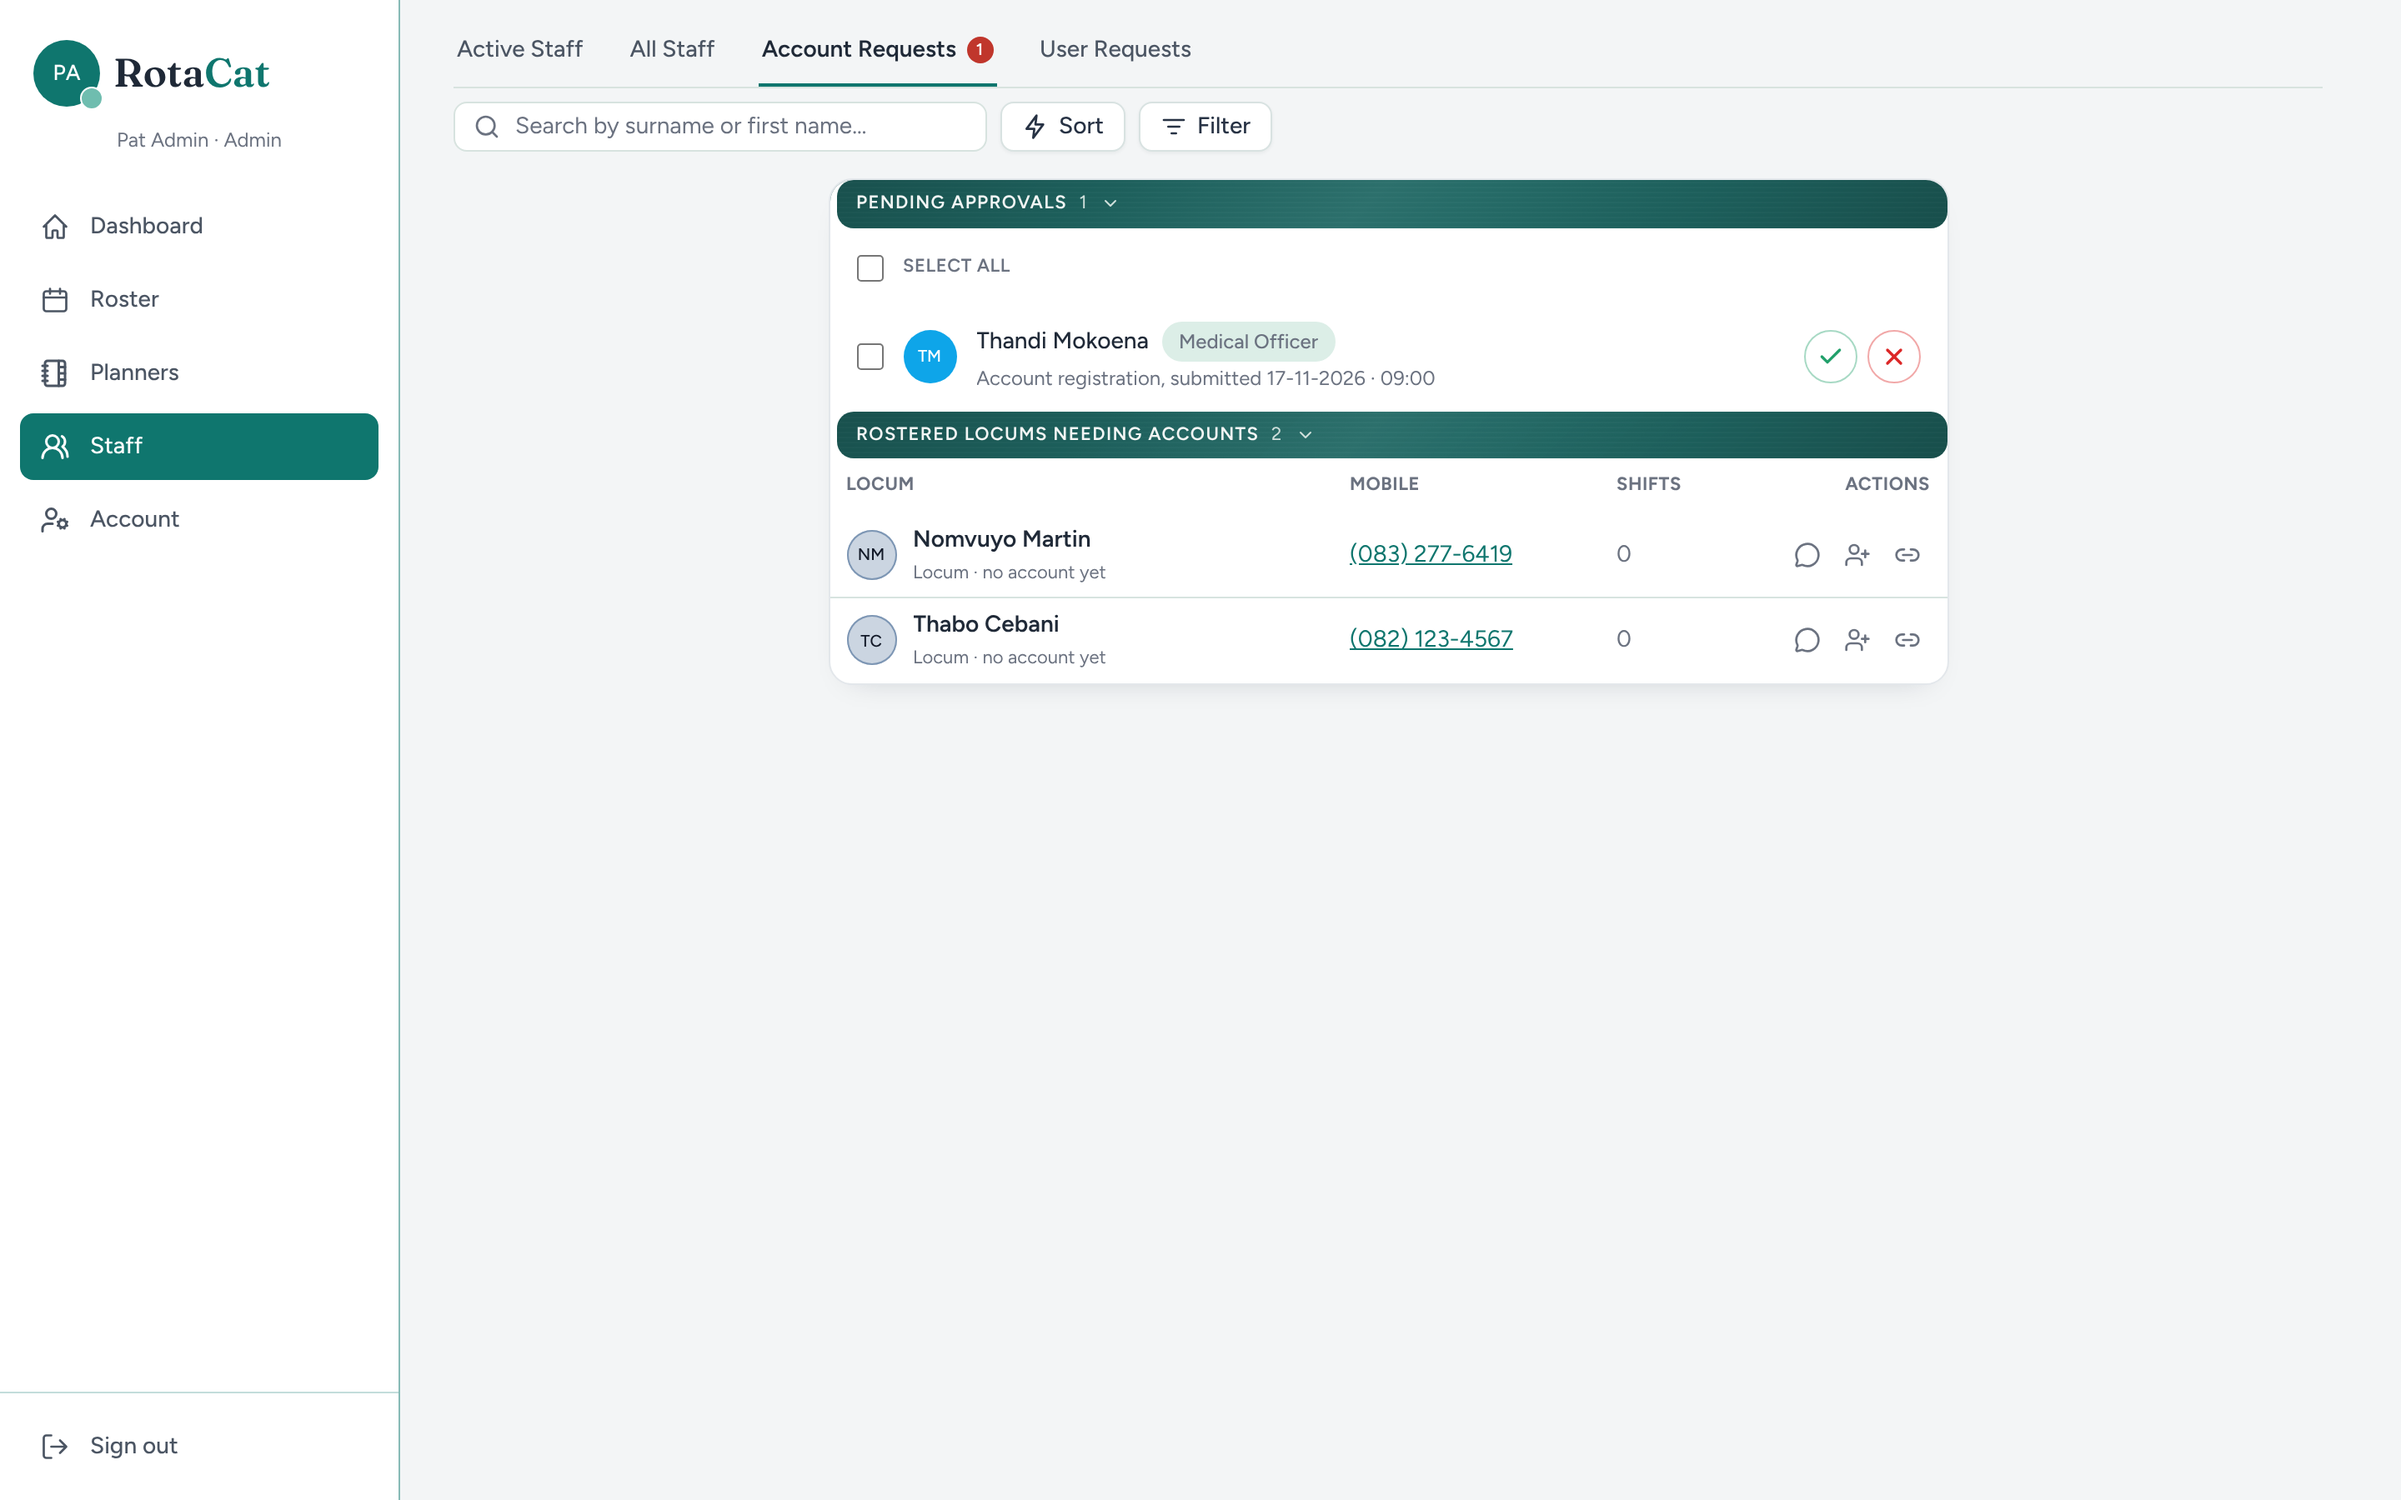
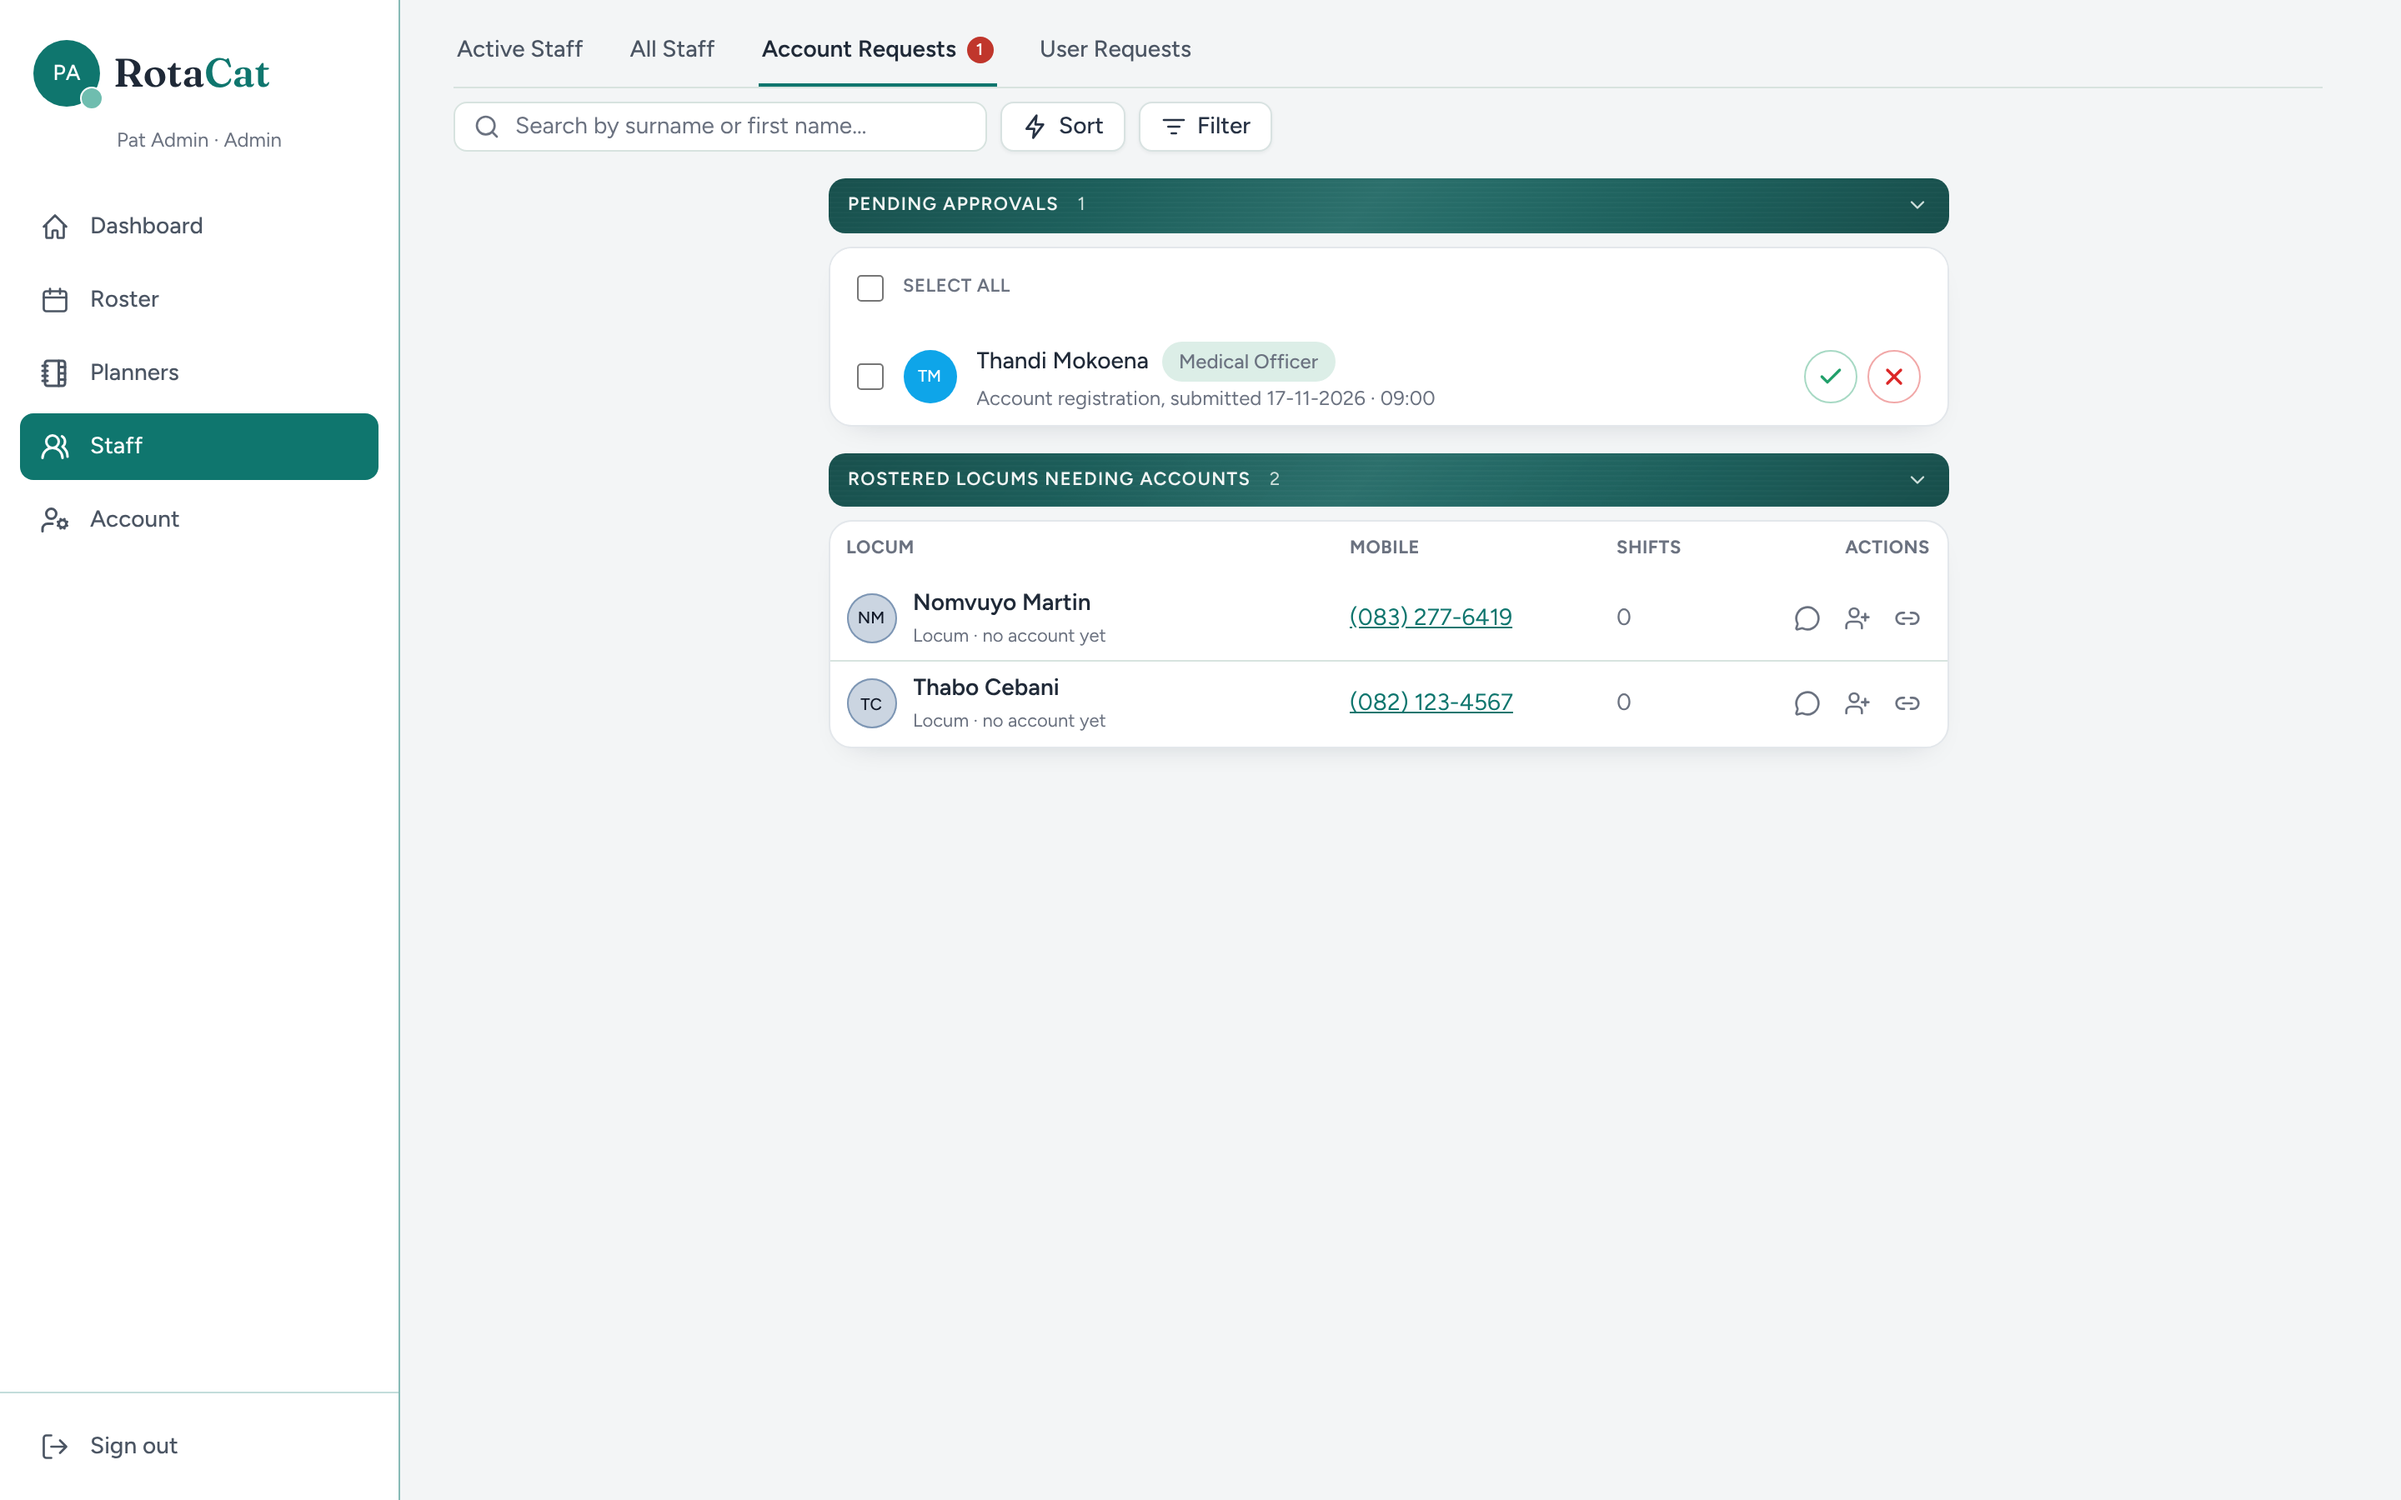
Account Requests: a header bar over its own card per section
Each section is the Staff list's shape: a sheen header bar, then a
separate white card beneath it, rather than two bars inside one card.

Claude-Session: https://claude.ai/code/session_012j9w9p49MqWz6PXzseFAQy

Changed region(s): [[0.3438, 0.1244, 0.8125, 0.4978]]

diff --git a/src/pages/StaffListPage.jsx b/src/pages/StaffListPage.jsx
@@ -12,7 +12,6 @@ import FloatingActionMenu from '../components/FloatingActionMenu'
 import StatusChangeConfirmModal from '../components/StatusChangeConfirmModal'
 import AddStaffModal from '../components/AddStaffModal'
 import LocumContactsPanel from '../components/LocumContactsPanel'
-import SectionBar from '../components/SectionBar'
 import { fetchOpenLocumContacts } from '../lib/locumCover'
 import RowActionIcon from '../components/RowActionIcon'
 import ExpandAllButton from '../components/ExpandAllButton'
@@ -1679,66 +1678,76 @@ export default function StaffListPage() {
               <p className="text-sm text-ink-muted">No account requests. Sign-ups awaiting approval and rostered locums without an account appear here.</p>
             </div>
           ) : (
-            /* One table, two collapsible sections, each shown only while it
-               has rows: sign-ups waiting on an approval, then locums put on
-               the roster by name and mobile who still need an account. */
-            <div className="card overflow-hidden">
+            /* Two sections, each a sheen header bar over its own card — the
+               Staff list's own shape — and each shown only while it has
+               rows: sign-ups waiting on an approval, then locums put on the
+               roster by name and mobile who still need an account. */
+            <div className="space-y-4">
               {pending.length > 0 && (
-                <>
-                  <SectionBar
-                    label="Pending approvals"
-                    count={pending.length}
-                    surround="card"
-                    collapsed={requestSectionsCollapsed.pending}
-                    onToggle={() => setRequestSectionsCollapsed(c => ({ ...c, pending: !c.pending }))}
-                  />
-                  {!requestSectionsCollapsed.pending && (filteredPending.length === 0 ? (
-                    <p className="px-5 py-4 text-sm text-ink-muted">No accounts match these filters.</p>
-                  ) : (
-                    <>
-                      <SelectAllRow
-                        checked={selectedPendingIds.size === pending.length}
-                        onToggleCheck={toggleSelectAllPending}
-                        selectLabel="Select all pending accounts"
-                        active={selectedPendingIds.size > 0}
-                        count={selectedPendingIds.size}
-                        actions={[
-                          { label: 'Approve selected', onClick: bulkApprovePending },
-                          { label: 'Reject selected', onClick: bulkRejectPending, tone: 'danger' },
-                        ]}
-                        onCancel={() => setSelectedPendingIds(new Set())}
-                      />
-                      <div className="divide-y divide-slate-line">
-                        {orderedPending.map((person) => (
-                          <PendingApprovalRow
-                            key={person.id}
-                            person={person}
-                            checked={selectedPendingIds.has(person.id)}
-                            onToggleCheck={() => togglePendingSelected(person.id)}
-                            approveAccount={approveAccount}
-                            rejectAccount={rejectAccount}
-                            onEdit={id => navigate(`/staff/pending/${id}`, { state: { backgroundLocation: location } })}
+                <div>
+                  <button
+                    type="button"
+                    onClick={() => setRequestSectionsCollapsed(c => ({ ...c, pending: !c.pending }))}
+                    aria-expanded={!requestSectionsCollapsed.pending}
+                    className="sheen-divider mb-2 w-full transition-[filter] hover:brightness-110 active:brightness-110"
+                  >
+                    <span>Pending approvals <span className="divider-meta ml-2 normal-case font-normal">{pending.length}</span></span>
+                    <ChevronDownIcon className={`divider-meta h-3.5 w-3.5 flex-shrink-0 transition-transform ${requestSectionsCollapsed.pending ? 'rotate-180' : ''}`} />
+                  </button>
+                  {!requestSectionsCollapsed.pending && (
+                    <div className="card overflow-hidden">
+                      {filteredPending.length === 0 ? (
+                        <p className="px-5 py-4 text-sm text-ink-muted">No accounts match these filters.</p>
+                      ) : (
+                        <>
+                          <SelectAllRow
+                            checked={selectedPendingIds.size === pending.length}
+                            onToggleCheck={toggleSelectAllPending}
+                            selectLabel="Select all pending accounts"
+                            active={selectedPendingIds.size > 0}
+                            count={selectedPendingIds.size}
+                            actions={[
+                              { label: 'Approve selected', onClick: bulkApprovePending },
+                              { label: 'Reject selected', onClick: bulkRejectPending, tone: 'danger' },
+                            ]}
+                            onCancel={() => setSelectedPendingIds(new Set())}
                           />
-                        ))}
-                      </div>
-                    </>
-                  ))}
-                </>
+                          <div className="divide-y divide-slate-line">
+                            {orderedPending.map((person) => (
+                              <PendingApprovalRow
+                                key={person.id}
+                                person={person}
+                                checked={selectedPendingIds.has(person.id)}
+                                onToggleCheck={() => togglePendingSelected(person.id)}
+                                approveAccount={approveAccount}
+                                rejectAccount={rejectAccount}
+                                onEdit={id => navigate(`/staff/pending/${id}`, { state: { backgroundLocation: location } })}
+                              />
+                            ))}
+                          </div>
+                        </>
+                      )}
+                    </div>
+                  )}
+                </div>
               )}
               {locumContactCount > 0 && (
-                <>
-                  <SectionBar
-                    label="Rostered locums needing accounts"
-                    count={locumContactCount}
-                    surround="card"
-                    collapsed={requestSectionsCollapsed.locums}
-                    onToggle={() => setRequestSectionsCollapsed(c => ({ ...c, locums: !c.locums }))}
-                    className={pending.length > 0 ? 'mt-1' : ''}
-                  />
+                <div>
+                  <button
+                    type="button"
+                    onClick={() => setRequestSectionsCollapsed(c => ({ ...c, locums: !c.locums }))}
+                    aria-expanded={!requestSectionsCollapsed.locums}
+                    className="sheen-divider mb-2 w-full transition-[filter] hover:brightness-110 active:brightness-110"
+                  >
+                    <span>Rostered locums needing accounts <span className="divider-meta ml-2 normal-case font-normal">{locumContactCount}</span></span>
+                    <ChevronDownIcon className={`divider-meta h-3.5 w-3.5 flex-shrink-0 transition-transform ${requestSectionsCollapsed.locums ? 'rotate-180' : ''}`} />
+                  </button>
                   {!requestSectionsCollapsed.locums && (
-                    <LocumContactsPanel onLinked={() => loadAll({ silent: true })} onCount={setLocumContactCount} />
+                    <div className="card overflow-hidden">
+                      <LocumContactsPanel onLinked={() => loadAll({ silent: true })} onCount={setLocumContactCount} />
+                    </div>
                   )}
-                </>
+                </div>
               )}
             </div>
           )}
